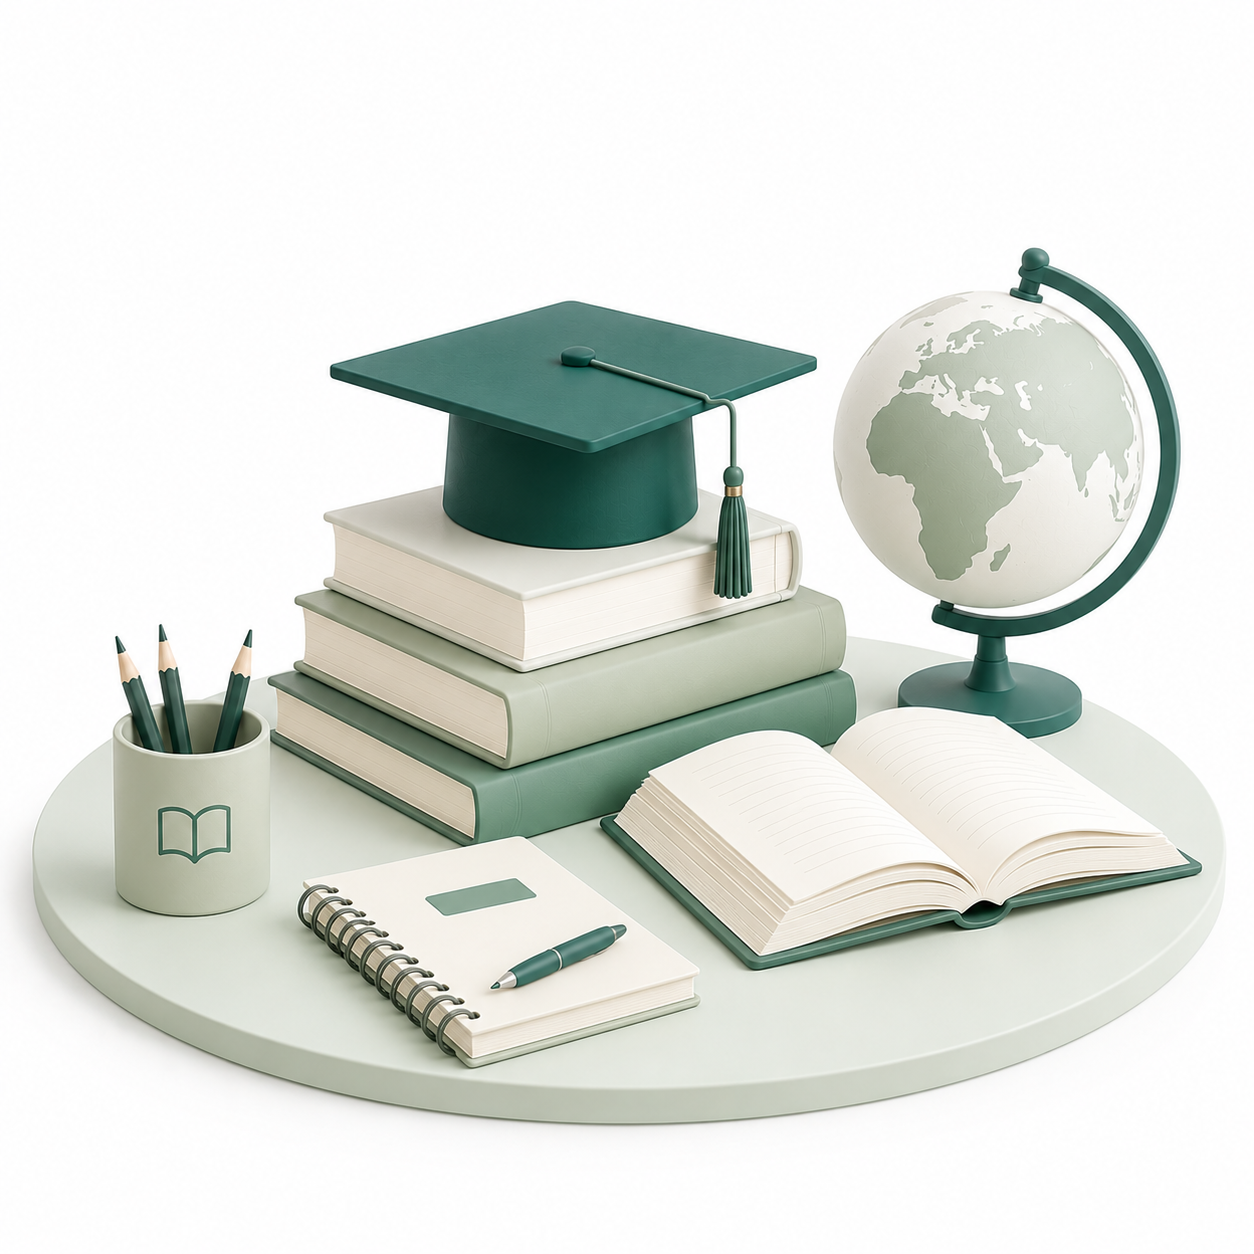
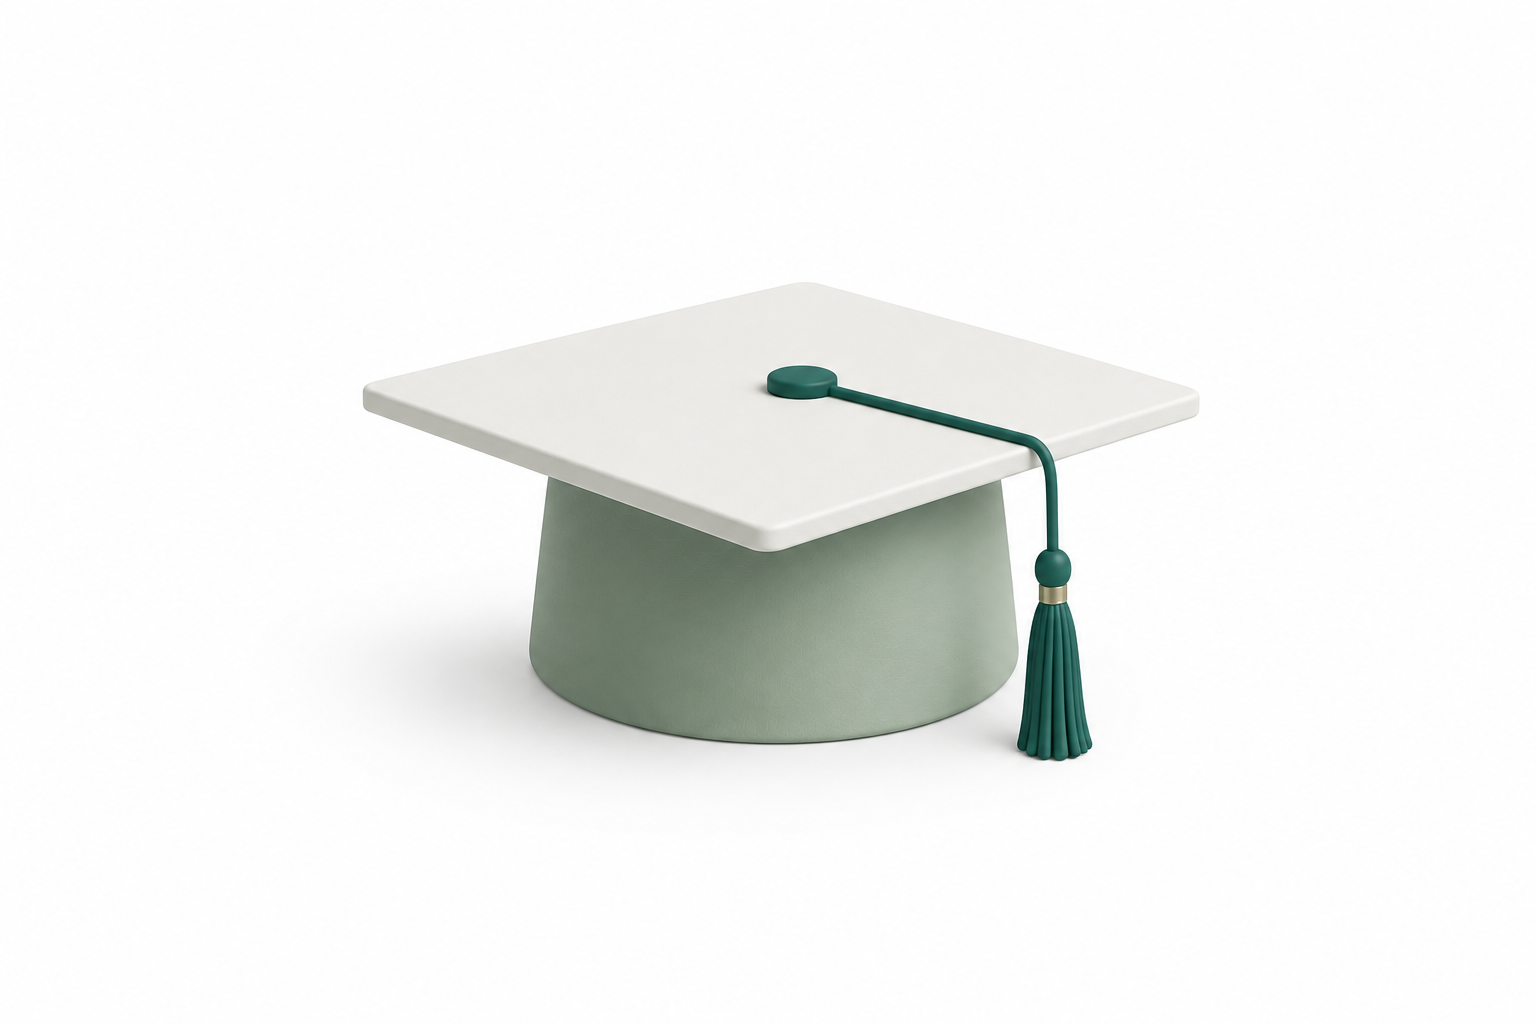
latest

diff --git a/src/index.css b/src/index.css
@@ -1397,3 +1397,5 @@ input[type="password"]::-ms-reveal {
 .animate-shimmer {
   animation: shimmer 3s ease-in-out infinite;
 }
+
+@keyframes slide-left { 0% { transform: translateX(0); } 100% { transform: translateX(-50%); } }
